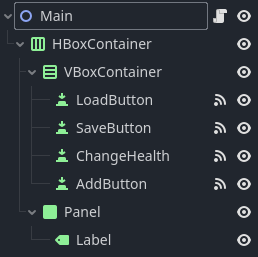
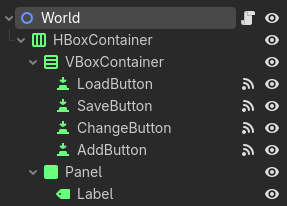
rev a26

diff --git a/docs/c12_save_data/index.md b/docs/c12_save_data/index.md
@@ -39,8 +39,8 @@ La structure de la scène est la suivante :
             - `Button` (SaveButton) : bouton pour sauvegarder les données.
             - `Button` (ChangeButton) : bouton pour modifier la santé du joueur.
             - `Button` (AddButton) : bouton pour ajouter un item à l’inventaire.
-    - `Panel` : panneau pour afficher les informations.
-        - `Label` : étiquette pour afficher la santé du joueur.
+        - `Panel` : panneau pour afficher les informations.
+            - `Label` : étiquette pour afficher la santé du joueur.
 
 - Création d'un script `main.gd` pour gérer les interactions avec les boutons
 - Ajout des signaux pour les boutons `pressed` pour appeler les fonctions correspondantes.
@@ -80,10 +80,10 @@ Pour gérer les données du joueur, comme sa santé, nous allons créer une ress
 Pour enregistrer les données du joueur sur le disque, nous devons configurer un fichier de sauvegarde dans `main.gd`.
 
 1. **Définir les variables de chemin :**
-   ```gd
-   var save_file_path = "user://save/"
-   var save_file_name = "player_save.tres"
-   ```
+    ```gd
+    var save_file_path = "user://save/"
+    var save_file_name = "player_save.tres"
+    ```
 
     - La sauvegarde est placée dans le répertoire `user://`, accessible à toutes les plateformes.
     - Le fichier sera nommé `player_save.tres`.
@@ -92,24 +92,45 @@ Pour enregistrer les données du joueur sur le disque, nous devons configurer un
     - Instanciez `PlayerData` et assignez-la à une variable `player_data`.
     - Créez une fonction pour vérifier et, si besoin, créer le dossier de sauvegarde en utilisant `DirectoryAccess`.
   
-   ```gd
-   var player_data = PlayerData.new()
+    ```gd
+    var player_data = PlayerData.new()
 
-   func verify_save_directory(path: String):
-       DirAccess.make_dir_absolute(path)
-   ```
+    func verify_save_directory(path : String) -> void:
+        var err := DirAccess.make_dir_recursive_absolute(save_file_path)
+
+        if err != OK:
+            push_error("Erreur lors de la création du répertoire de sauvegarde : " + str(err))
+    ```
+
+    `DirAccess.make_dir_recursive_absolute()` crée le répertoire de sauvegarde s'il n'existe pas déjà, garantissant que le chemin est prêt pour la sauvegarde. S'il y a une erreur, `err` contiendra le code d'erreur.
+
+    `push_error()` est utilisé pour afficher un message d'erreur dans la console de Godot, ce qui est utile pour le débogage.
+
 
 3. **Sauvegarder et charger les données :**
     - Utilisez `ResourceSaver` pour sauvegarder et `ResourceLoader` pour charger.
 
-   ```gd
-   func save_game() -> void:
-       ResourceSaver.save(player_data, save_file_path + save_file_name)
+    ```gd
+    func save_game() -> void:
+        verify_save_directory(save_file_path)
+        
+        var err := ResourceSaver.save(player_data, save_file_path.path_join(save_file_name))
+        
+        if err != OK:
+            push_error("Erreur lors de la sauvegarde")
 
-   func load_game() -> void :
-      # duplicate(true) permet de charger une copie profonde (deep copy) de la ressource, i.e. une copie des sous-ressources. Autrement, les sous-ressources ne seront pas chargées (shallow copy).
-      playerData = ResourceLoader.load(save_file_path + save_file_name).duplicate(true)
-   ```
+    func load_game() -> void :
+        var save_path := save_file_path.path_join(save_file_name)
+        if not ResourceLoader.exists(save_path):
+            push_warning("No save file found at: " + ProjectSettings.globalize_path(save_path))
+            return
+        player_data = ResourceLoader.load(save_path).duplicate(true)
+        update_label()
+    ```
+    
+    `ResourceSaver.save()` enregistre l'état actuel de `player_data` dans le fichier spécifié. Si une erreur survient, un message d'erreur est affiché.
+    `ResourceLoader.load()` charge les données sauvegardées et les duplique pour éviter toute référence partagée, garantissant que les modifications ultérieures n'affectent pas les données chargées.
+    `.duplicate(true)` crée une copie complète de la ressource, y compris toutes les sous-ressources (ex : classe enfant), ce qui est crucial pour éviter les effets secondaires lors de la manipulation des données chargées.
 
 4. **Mise à jour de la santé :**
     - Créez une fonction qui modifie la santé du joueur, puis sauvegardez l'état après chaque changement.
@@ -124,6 +145,9 @@ Pour enregistrer les données du joueur sur le disque, nous devons configurer un
 
 ## Test de la sauvegarde et du chargement
 Lors de la première exécution, cliquez sur le bouton `Save` pour enregistrer les données du joueur. Ensuite, cliquez sur le bouton `Change` pour modifier la santé du joueur. Enfin, cliquez sur le bouton `Load` pour charger les données sauvegardées.
+
+!!! note "Complétez le code"
+    Appeler les fonctions derrières les boutons `Save`, `Load` et `Change` dans le script principal pour tester la sauvegarde et le chargement des données.
 
 ### Observations
 
@@ -141,34 +165,34 @@ En ajoutant un inventaire comme sous-ressource dans `PlayerData`, chaque item se
 1. **Créer une ressource d’Item :**
     - Créez `item.gd` pour définir un objet `Item` avec une propriété `item_name`.
 
-   ```gd
-   extends Resource
-   class_name Item
+    ```gd
+    extends Resource
+    class_name Item
 
-   @export var item_name: String = "undefined"
+    @export var item_name: String = "undefined"
 
-   func _init(item_name: String = "undefined"):
-       self.item_name = item_name
-   ```
+    func _init(item_name: String = "undefined"):
+        self.item_name = item_name
+    ```
 
 2. **Ajouter une propriété d’inventaire à `PlayerData` :**
-    - Dans `playerdata.gd`, ajoutez une propriété exportée `inventory` comme un tableau d'objets `Item`.
+    - Dans `player_data.gd`, ajoutez une propriété exportée `inventory` comme un tableau d'objets `Item`.
 
-   ```gd
-   @export var inventory := []
+    ```gd
+    @export var inventory := []
 
-   func add_item_to_inventory(item_name : String) -> void:
-      var item := Item.new(item_name)
-      inventory.append(item)
-   ```
+    func add_item_to_inventory(item_name : String) -> void:
+        var item := Item.new(item_name)
+        inventory.append(item)
+    ```
 
 3. **Ajouter des objets via le script principal :**
     - Dans `main.gd`, créez une méthode pour ajouter des éléments à l’inventaire, comme des pommes.
 
-   ```gd
-   func _on_add_button_pressed() -> void:
-      playerData.add_item_to_inventory("Apple")
-   ```
+    ```gd
+    func _on_add_button_pressed() -> void:
+        player_data.add_item_to_inventory(["Pomme", "Banane", "Poire"].pick_random())
+    ```
 
 4. **Sauvegarde et restauration de l’inventaire :**
     - Lors de la sauvegarde, les sous-ressources contenues dans `inventory` seront automatiquement sauvegardées dans le fichier principal.
@@ -216,8 +240,8 @@ Les fichiers JSON restent utiles pour stocker des données de référence ou des
 
 Exemple d'utilisation :
 
-    - **JSON** : stocke les données de base des items.
-    - **Ressources personnalisées** : gèrent les sauvegardes de chaque instance d’item et ses modifications.
+- **JSON** : stocke les données de base des items.
+- **Ressources personnalisées** : gèrent les sauvegardes de chaque instance d’item et ses modifications.
 
 Cette approche hybride permet de conserver des données par défaut tout en offrant la flexibilité d’ajuster chaque item individuellement dans le jeu.
 
